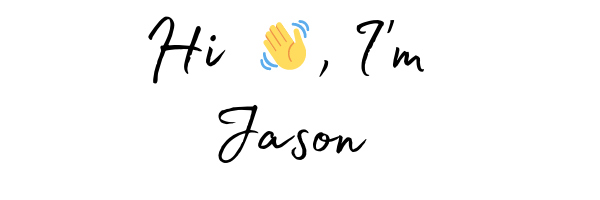
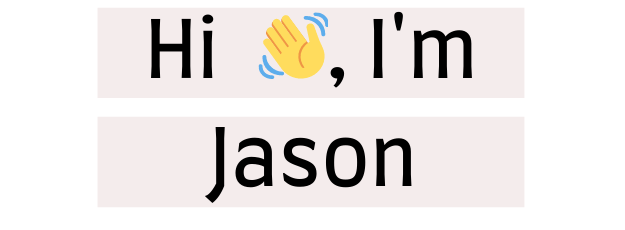
<added> blog styling

Changed region(s): [[0.24, 0.03, 0.78, 0.42], [0.33, 0.51, 0.66, 0.9]]

diff --git a/src/views/BlogHome.vue b/src/views/BlogHome.vue
@@ -1,39 +1,49 @@
 <template>
-  <b-container>
-    <div style="width: 66%" class="text-center mx-auto mt-5 mb-5">
-      <div style="border-top: 1px solid black; border-bottom: 1px solid black">
+  <div>
+    <div class="text-center mx-auto">
+      <b-img fluid src="../assets/blog-header.png"></b-img>
+      <!-- <div style="border-top: 1px solid black; border-bottom: 1px solid black">
         <h1 class="display-4"><b>Blog</b></h1>
       </div>
-      <p class="lead mt-3">Blog about all things bloggy</p>
+      <p class="lead mt-3">Blog about all things bloggy</p> -->
     </div>
-    <div v-for="(post, index) in posts" :key="post.slug + '_' + index">
-      <b-row>
-        <b-col class="mx-auto col-lg-8 col-md-10">
-          <router-link :to="'/blog/' + post.slug">
-            <b-card class="post-card border-0 rounded">
-              <b-img
-                style="border-radius: 0.5rem"
-                :src="post.featured_image"
-                fluid
-              ></b-img>
 
-              <b-card-title class="h2 text-dark mt-4 font-weight-bold">{{
-                post.title
-              }}</b-card-title>
-              <b-card-text class="mb-2 text-monospace text-secondary">
-                {{ post.summary }}
-              </b-card-text>
-              <div>
-                <span class="mr-2 badge badge-pill badge-primary">Example</span>
-                <span class="mr-2 badge badge-pill badge-primary">Example</span>
-              </div>
-              <small class="font-italic text-muted">{{ post.published }}</small>
-            </b-card>
-          </router-link>
-        </b-col>
-      </b-row>
-    </div>
-  </b-container>
+    <b-container>
+      <div v-for="(post, index) in posts" :key="post.slug + '_' + index">
+        <b-row>
+          <b-col class="mx-auto col-lg-8 col-md-10">
+            <router-link :to="'/blog/' + post.slug">
+              <b-card class="post-card border-0 rounded">
+                <b-img
+                  style="border-radius: 0.5rem"
+                  :src="post.featured_image"
+                  fluid
+                ></b-img>
+
+                <b-card-title class="h2 text-dark mt-4 font-weight-bold">{{
+                  post.title
+                }}</b-card-title>
+                <b-card-text class="mb-2 text-monospace text-secondary">
+                  {{ post.summary }}
+                </b-card-text>
+                <div>
+                  <span class="mr-2 badge badge-pill badge-primary"
+                    >Example</span
+                  >
+                  <span class="mr-2 badge badge-pill badge-primary"
+                    >Example</span
+                  >
+                </div>
+                <small class="font-italic text-muted">{{
+                  post.published
+                }}</small>
+              </b-card>
+            </router-link>
+          </b-col>
+        </b-row>
+      </div>
+    </b-container>
+  </div>
 </template>
 
 <script>
@@ -76,14 +86,14 @@ hr.blog-hr {
 
 .card-body {
   margin-bottom: 24px;
-  --bg-opacity: 1;
-  background-color: rgba(248, 250, 252, var(--bg-opacity));
-  border-radius: 0.5rem;
   transition: 0.6s;
 }
 
 .card-body:hover {
-  background-color: #ebedf0;
-  text-decoration: none;
+  box-shadow: 0 2.8px 2.2px rgba(0, 0, 0, 0.034),
+    0 6.7px 5.3px rgba(0, 0, 0, 0.048), 0 12.5px 10px rgba(0, 0, 0, 0.06),
+    0 22.3px 17.9px rgba(0, 0, 0, 0.072), 0 41.8px 33.4px rgba(0, 0, 0, 0.086),
+    0 100px 80px rgba(0, 0, 0, 0.12);
+    background-color: #FAF3F3;
 }
 </style>

diff --git a/src/App.vue b/src/App.vue
@@ -1,11 +1,16 @@
 <template>
   <div>
+    <div style="background-color: #183042">
+      <b-nav align="right">
+          <b-nav-item><b-icon-linkedin variant="light"></b-icon-linkedin></b-nav-item>
+          <b-nav-item><b-icon-github variant="light"></b-icon-github></b-nav-item>
+      </b-nav>
+    </div>
     <b-navbar class="navbar-top" toggleable="lg">
       <b-container>
         <b-navbar-brand class="text-monospace" to="/">
           Jason Hitching
         </b-navbar-brand>
-
         <b-navbar-toggle target="nav-collapse"></b-navbar-toggle>
         <b-collapse id="nav-collapse" is-nav>
           <b-navbar-nav class="mt-2 mb-2 ml-auto text-monospace">
@@ -19,7 +24,13 @@
     </b-navbar>
     <router-view class="content" />
     <b-row align-h="end" class="mr-3 mb-3">
-      <button v-on:click="scrollToTop" id="backToTop">☝</button>
+      <button
+        style="width: 60px; height: 60px"
+        v-on:click="scrollToTop"
+        id="backToTop"
+      >
+        ☝
+      </button>
     </b-row>
 
     <footer class="border-top">

diff --git a/src/views/Home.vue b/src/views/Home.vue
@@ -1,27 +1,30 @@
 <template>
-  <b-container class="mt-5 mx-auto text-center">
-    <b-img
-      rounded="circle"
-      src="../assets/profile-pic.jpeg"
-      style="width: 250px"
-      class="mb-5"
-    ></b-img>
-    <p>
-      <b-img
-        style="transform: rotate(-6deg)"
-        class="ml-4"
-        src="../assets/intro-header.png"
-      ></b-img>
-    </p>
-    <p style="font-size: 23px" class="pl-3 pt-2 pb-3 lead">
-      a software engineering masters student.
-    </p>
+  <b-container>
+    <b-row align-v="center" class="mt-5">
+      <b-col>
+        <b-img
+          center
+          rounded="circle"
+          src="../assets/profile-pic.jpeg"
+          style="width: 250px"
+        ></b-img>
+      </b-col>
+      <b-col class="col-lg-8">
+        <Terminal />
+      </b-col>
+    </b-row>
   </b-container>
 </template>
 
 <script>
+import Terminal from "../components/Terminal";
+
 export default {
   name: "Home",
-  components: {}
+  components: {
+    Terminal
+  }
 };
 </script>
+
+<style scoped></style>

diff --git a/src/components/Terminal.vue b/src/components/Terminal.vue
@@ -1,0 +1,37 @@
+<template>
+  <b-container>
+    <b-card
+      style="height: 200px; background-color: #183042"
+      header="🗂 personal-portfolio -zsh 80x24"
+      body-text-variant="success"
+      header-bg-variant="secondary"
+      header-text-variant="light"
+      header-tag="header"
+    >
+      <div>
+        <vue-typed-js :showCursor="false" :strings="['Hey, I\'m Jason']">
+          <strong
+            ><p class="text-monospace">$ <span class="typing"></span></p
+          ></strong>
+        </vue-typed-js>
+      </div>
+      <div>
+        <vue-typed-js
+          :startDelay="2000"
+          :showCursor="false"
+          :strings="['$ a budding software engineer']"
+        >
+          <strong><p class="text-monospace typing"></p></strong>
+        </vue-typed-js>
+      </div>
+    </b-card>
+  </b-container>
+</template>
+
+<script>
+export default {
+  name: "terminal"
+};
+</script>
+
+<style></style>

diff --git a/src/main.js b/src/main.js
@@ -3,6 +3,7 @@ import "mutationobserver-shim";
 import Vue from "vue";
 import App from "./App.vue";
 import router from "./router";
+import VueTypedJs from "vue-typed-js";
 
 import { BootstrapVue, IconsPlugin } from "bootstrap-vue";
 
@@ -10,6 +11,7 @@ Vue.config.productionTip = false;
 
 Vue.use(BootstrapVue);
 Vue.use(IconsPlugin);
+Vue.use(VueTypedJs);
 
 import "bootstrap/dist/css/bootstrap.css";
 import "bootstrap-vue/dist/bootstrap-vue.css";

diff --git a/src/components/BlogPost.vue b/src/components/BlogPost.vue
@@ -1,5 +1,5 @@
 <template>
-  <b-container>
+  <b-container style="max-width: 60%">
     <h1>{{ post.data.title }}</h1>
     <h4>{{ post.data.author.first_name }} {{ post.data.author.last_name }}</h4>
     <div v-html="post.data.body"></div>
